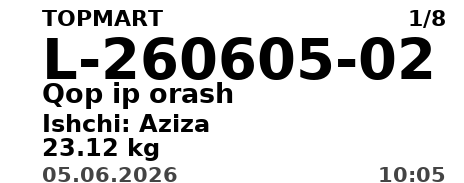
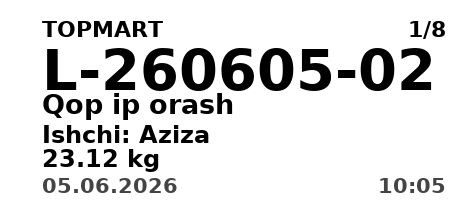
Add top and bottom padding to the label design
Adjust label generation to increase top padding from 5px to 16px and bottom padding from 6px to 16px in `label_generator.py`.

Replit-Commit-Author: Agent
Replit-Commit-Session-Id: 7a69ddb9-0d94-400c-a1ba-ae3fbd5a4e53
Replit-Commit-Checkpoint-Type: full_checkpoint
Replit-Commit-Event-Id: 241a7b87-bfa2-4c14-ac65-6b599e8ef508
Replit-Commit-Screenshot-Url: https://storage.googleapis.com/screenshot-production-us-central1/ca84da3f-7711-4247-8a88-bb50ee21e7d2/7a69ddb9-0d94-400c-a1ba-ae3fbd5a4e53/ckkmFRe
Replit-Helium-Checkpoint-Created: true

Changed region(s): [[0.0905, 0.0546, 0.9655, 0.6011], [0.0905, 0.6011, 0.4526, 1.0], [0.8147, 0.847, 0.9655, 1.0]]

diff --git a/artifacts/telegram-bot/bot/label_generator.py b/artifacts/telegram-bot/bot/label_generator.py
@@ -112,7 +112,7 @@ def _build_single(
     BC_MAX_W = LABEL_W - PAD_L - PAD_R
 
     # ── Satır 1: TOPMART (chap) + N/M (o'ng) ─────────────────────
-    y = 5
+    y = 16
     draw.text((PAD_L, y), "TOPMART", font=F_HDR, fill="black")
     page_txt = f"{unit_num}/{total_units}"
     draw.text((LABEL_W - PAD_R, y), page_txt, font=F_HDR, fill="black", anchor="ra")
@@ -143,7 +143,7 @@ def _build_single(
     # ── Satır 6: Sana (chap) + Soat (o'ng) — og'irlik ostida ─────
     draw.text((PAD_L, y), date_str, font=F_DT, fill="#444444")
     draw.text((LABEL_W - PAD_R, y), time_str, font=F_DT, fill="#444444", anchor="ra")
-    y += _text_h(draw, date_str, F_DT) + 6   # 6px pastki bo'shliq
+    y += _text_h(draw, date_str, F_DT) + 16   # 16px pastki bo'shliq
 
     # Quyi bo'sh qismni kesib tashlash — faqat mazmun balandligi qoladi
     return img.crop((0, 0, LABEL_W, y))
